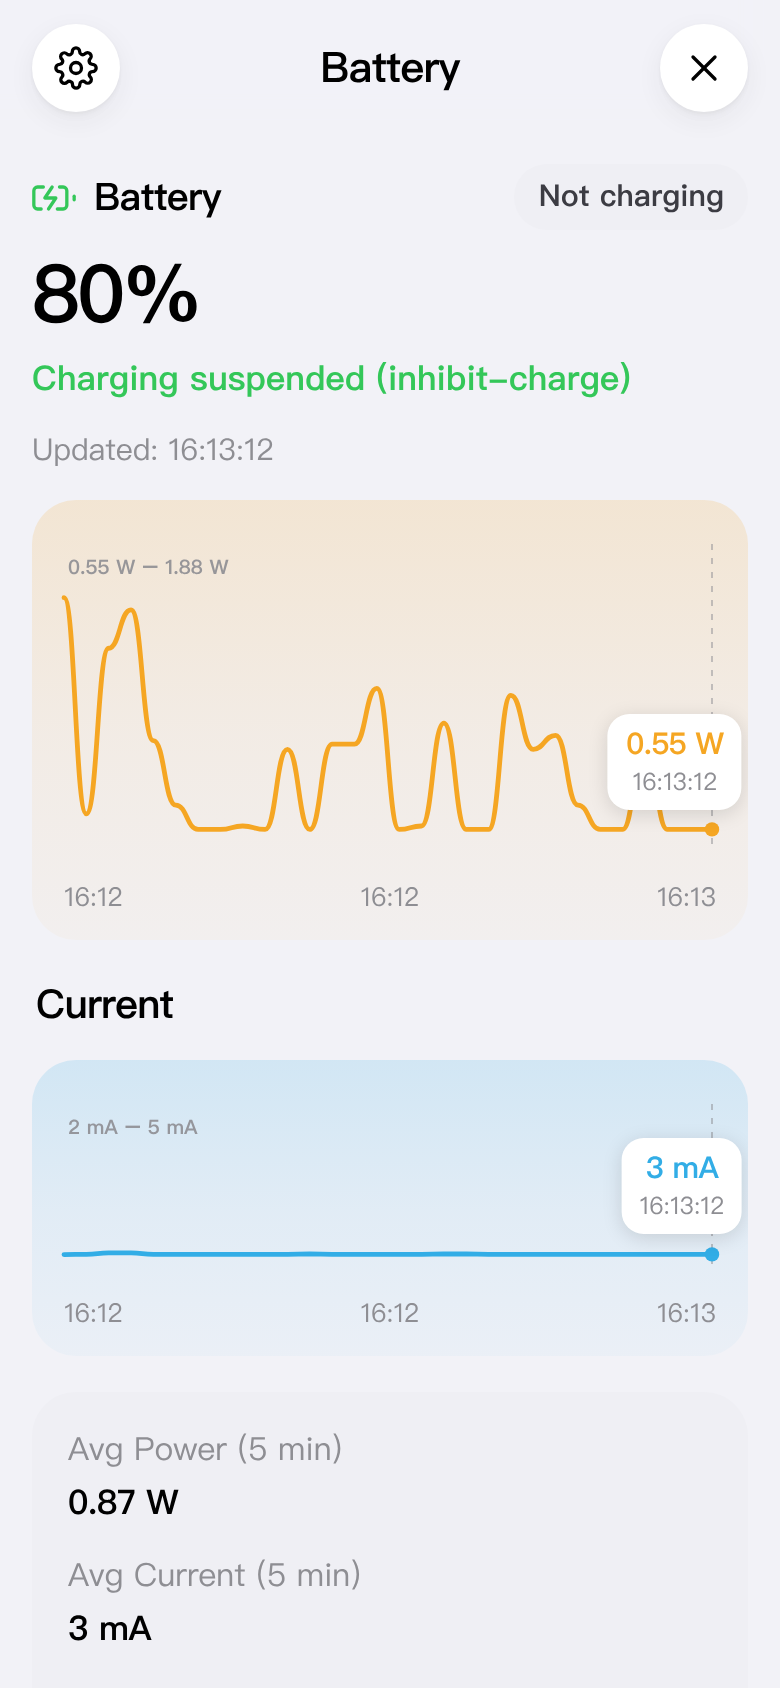
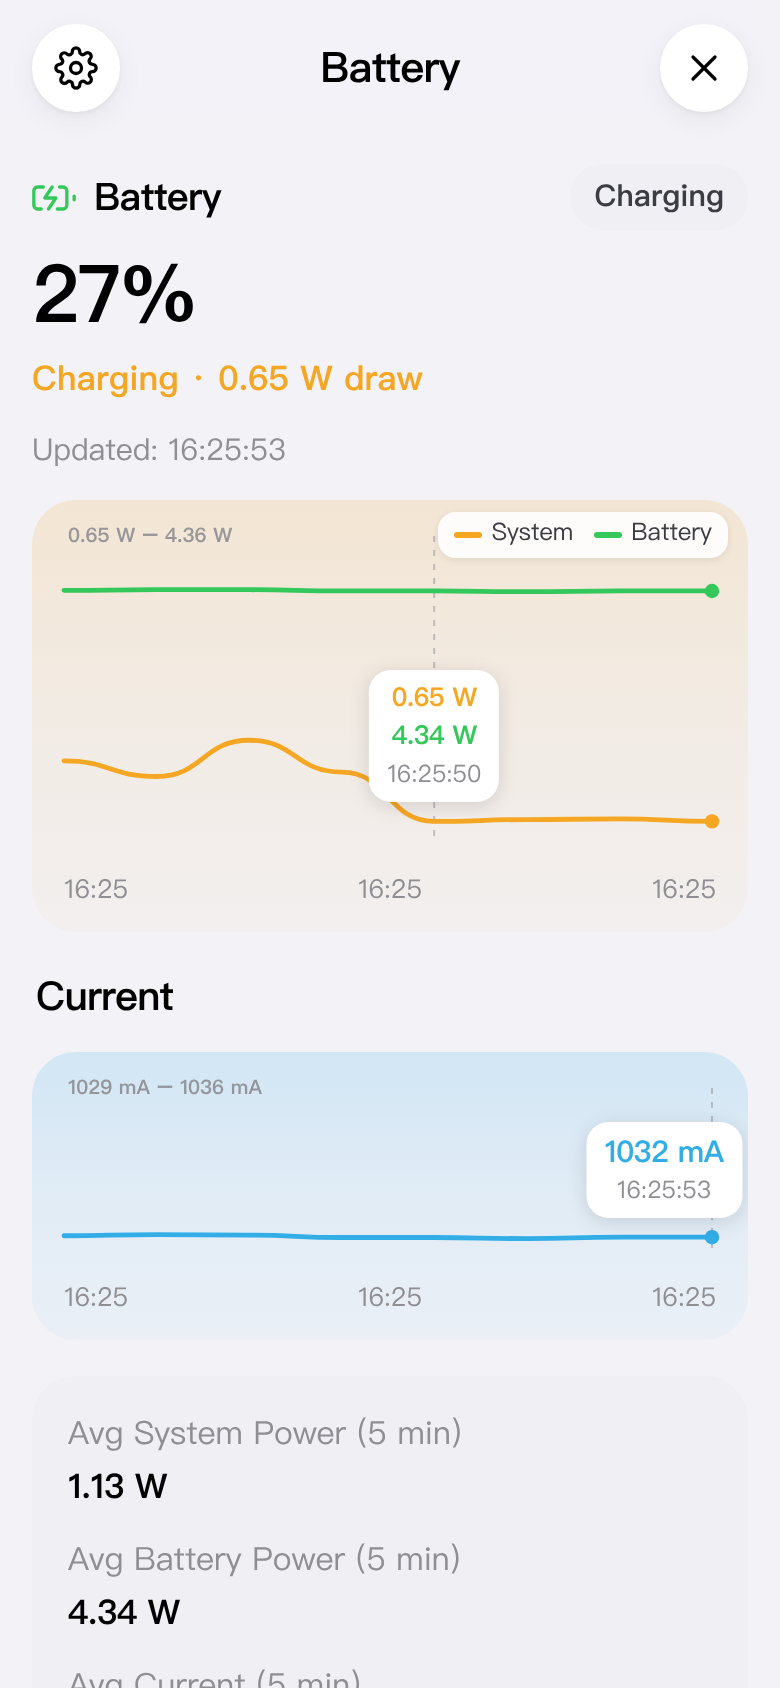
宽屏适配：电脑端变成双栏常驻看板
手机保持单栏 + 全屏滑入式详情；≥1024px 自动变成
左栏磁贴（独立滚动）+ 右栏详情（常驻，不再弹层）。

实现上刻意不动 DOM：#home 与 #detail 本来就是 #app 的直接子节点，
宽屏下把 #app 变成两列 grid 即可，openDetail/updateDetail/drawChart
的渲染逻辑一行都没改 —— 差别只是一个断点 + 几处行为分支。

其他：图表高度按视口取（主图 168→260、副图 96→144）；
详情内信息卡分两列、核心/温区网格四列；宽屏隐藏关闭按钮（不是模态）；
无深链时默认选中第一个指标；跨断点 resize 按当前指标重建图表。

踩坑：必须连 .detail.open 一起覆盖 —— 滑入态是 .detail.open（两个类），
特异性高于单个 .detail，只写 .detail{transform:none} 会让 translateX(-50%)
残留，右栏整体左移半屏（实测 408 → -108）。

顺带修 index.html 两处遗留：<title> 还是 v30 Monitor；lang=zh-CN 但界面全英文。

测试：桌面段重写并新增 6 条，共 62 项；手机端那 30 多条断言一条没动，
用来证明没破坏移动端。

diff --git a/static/app.js b/static/app.js
@@ -907,6 +907,19 @@ const METRICS = {
 // power 已于 2026-09-14 合并进 battery（同一份数据源、详情页字段重复）
 const TILE_ORDER = ['cpu', 'temp', 'memory', 'disk', 'io', 'traffic', 'netq', 'battery', 'system'];
 
+/* -------------------------------------------------------- 布局模式（断点） */
+/* 手机（<1024px）：单栏，点磁贴 → 全屏滑入的详情层，是「模态」。
+   电脑（≥1024px）：双栏常驻，左栏磁贴、右栏直接渲染详情，不是模态。
+   两者的差别只在「一个 CSS 断点 + 几处行为分支」，渲染逻辑（openDetail /
+   updateDetail / drawChart）完全共用 —— 所以手机端的表现一行都不会变。 */
+const DESKTOP_MQ = window.matchMedia('(min-width: 1024px)');
+const isDesktop = () => DESKTOP_MQ.matches;
+
+/* 宽屏下图表画大一点：竖向不再紧张，横向也够 */
+function chartHeights() {
+  return isDesktop() ? { main: 260, mini: 144 } : { main: 168, mini: 96 };
+}
+
 /* ------------------------------------------------------------------ 状态 */
 let DATA = null;
 let failures = 0;
@@ -1043,12 +1056,13 @@ function openDetail(id) {
 
   // 第二张图（可选）：比如 Battery 页的电流。mA 和 W 差两个数量级，
   // 不能和功率挤在一张图里，所以单独一张矮图。
+  const sizes = chartHeights();
   if (spec.miniChart) {
     body.appendChild(h('div', 'sub-title', spec.miniChart.title));
     const extraCard = h('div', 'chart-card');
     extraCard.style.background = chartBg(spec.miniChart.lines[0].color);
     body.appendChild(extraCard);
-    chartCards.extra = createChart(extraCard, { height: 96 });
+    chartCards.extra = createChart(extraCard, { height: sizes.mini });
   }
 
   const infoCard = h('div', 'info-card');
@@ -1099,7 +1113,7 @@ function openDetail(id) {
   }
 
   view.appendChild(body);
-  chartCards.main = createChart(chartCard, { height: 168 });
+  chartCards.main = createChart(chartCard, { height: sizes.main });
 
   // 图例压在主图右上角。**必须放在 createChart 之后** —— 那个函数会
   // host.innerHTML = ''，先加的会被抹掉。
@@ -1117,6 +1131,13 @@ function openDetail(id) {
   updateDetail();
 
   view.setAttribute('aria-hidden', 'false');
+  if (isDesktop()) {
+    // 宽屏是**常驻栏位**：直接显示，不推开首页，也不往 history 里塞条目
+    // （否则每点一个磁贴就多一条历史，返回键会变成"逐个撤销选择"）
+    view.classList.add('open');
+    $('#home').classList.remove('pushed');
+    return;
+  }
   if (!history.state || !history.state.detail) history.pushState({ detail: id }, '');
   requestAnimationFrame(() => {
     view.classList.add('open');
@@ -1128,10 +1149,17 @@ function closeDetail(fromPop) {
   const view = $('#detail');
   view.classList.remove('open');
   $('#home').classList.remove('pushed');
-  view.setAttribute('aria-hidden', 'true');
   currentDetail = null;
   chartCards.main = null;
   Object.keys(chartCards).forEach((k) => { if (k !== 'main') delete chartCards[k]; });
+
+  if (isDesktop()) {
+    // 宽屏下右栏是常驻的，"关闭"只是取消选中 —— 留个空态，不是收起一个弹层
+    view.innerHTML = '<div class="detail-empty">Select a metric on the left</div>';
+    view.setAttribute('aria-hidden', 'false');
+    return;
+  }
+  view.setAttribute('aria-hidden', 'true');
   if (!fromPop && history.state && history.state.detail) history.back();
 }
 
@@ -1392,16 +1420,26 @@ function boot() {
   history.replaceState({ v: 'home' }, '');
   window.addEventListener('popstate', () => { if (currentDetail) closeDetail(true); });
 
+  // 跨越 1024px 断点时布局变了（单栏模态 ↔ 双栏常驻），图表高度也跟着变
+  // （168 ↔ 260），所以必须按当前指标重建一次图表。
+  DESKTOP_MQ.addEventListener('change', (e) => {
+    const id = currentDetail ? currentDetail.id : (e.matches ? TILE_ORDER[0] : null);
+    if (id) openDetail(id);
+    else $('#detail').innerHTML = '';
+  });
+
   poll();
 
   // 支持 #cpu / #temp / #system 这类深链，直接打开对应详情页。
   // power 已合并进 battery，旧链接做个转发免得失效。
+  // 宽屏下若没有深链，默认选中第一个指标 —— 否则右边一大片空白。
   const LEGACY_DEEP = { power: 'battery' };
   const raw = (location.hash || '').replace('#', '');
   const deep = LEGACY_DEEP[raw] || raw;
-  if (deep && METRICS[deep]) {
+  const wanted = deep && METRICS[deep] ? deep : (isDesktop() ? TILE_ORDER[0] : null);
+  if (wanted) {
     const wait = setInterval(() => {
-      if (DATA) { clearInterval(wait); openDetail(deep); }
+      if (DATA) { clearInterval(wait); openDetail(wanted); }
     }, 120);
   }
 }

diff --git a/static/app.css b/static/app.css
@@ -654,3 +654,106 @@ body { display: flex; justify-content: center; }
   transition: transform .3s ease;
 }
 .offline.show { transform: translate(-50%, 0); }
+
+/* =========================================================================
+   宽屏（电脑端）布局：≥1024px —— 双栏常驻
+
+   手机上是「点磁贴 → 全屏滑入详情」；宽屏上改成：
+     左栏 = 设备卡 + 磁贴（自己滚）        右栏 = 选中指标的详情（自己滚）
+
+   实现上刻意**不动 DOM**：#home 与 #detail 本来就是 #app 的直接子节点，
+   宽屏下把 #app 变成两列 grid，两者各占一列 ——
+   openDetail / updateDetail 的渲染逻辑一行都不用改。
+   （#offline / .sheet-mask / .sheet 都是 position: fixed，不参与 grid。）
+   ========================================================================= */
+@media (min-width: 1024px) {
+  html, body { height: 100%; }
+
+  /* 桌面下整页不滚，两栏各自滚。这里 overflow: hidden 是安全的：
+     不再需要"靠 body 滚"，所以踩不到「body 变滚动容器 +
+     overscroll-behavior-y: none 阻断滚动链」那个坑（见文件开头那段注释）。 */
+  body {
+    display: block;
+    height: 100%;
+    overflow: hidden;
+  }
+
+  #app {
+    max-width: none;
+    width: 100%;
+    height: 100vh;
+    min-height: 0;
+    display: grid;
+    grid-template-columns: minmax(352px, 408px) minmax(0, 1fr);
+    box-shadow: none;
+  }
+
+  /* ---------------- 左栏：首页 ---------------- */
+  #home {
+    height: 100vh;
+    overflow-y: auto;
+    overscroll-behavior: contain;
+    padding-top: 22px;
+    padding-bottom: 28px;
+    scrollbar-width: none;
+    -ms-overflow-style: none;
+    /* 桌面端没有"被详情页推开"这回事。!important 是为了兜住
+       从窄屏 resize 过来时残留的 .pushed 类。 */
+    transform: none !important;
+    opacity: 1 !important;
+  }
+  #home::-webkit-scrollbar { width: 0; height: 0; display: none; }
+  .view { min-height: 0; }
+  /* 磁贴仍然是 2 列：左栏只有 ~400px，再窄就放不下右上角的灰字了
+     （灰字宽度预算的推导见「卡片文案原则」那节） */
+  #home .grid { grid-template-columns: repeat(2, minmax(0, 1fr)); }
+
+  /* ---------------- 右栏：详情 ---------------- */
+  /* 从全屏模态层降级成普通栏位：不固定定位、不滑入、不盖任何东西。
+     ⚠ 必须连 `.detail.open` 一起覆盖 —— 基础样式里 `.detail.open`
+     （两个类）的特异性高于单个 `.detail`，只写 .detail 的话
+     滑入态那个 translateX(-50%) 会留下来，把右栏整体左移半屏。 */
+  .detail,
+  .detail.open {
+    position: static;
+    inset: auto;
+    transform: none;
+    width: auto;
+    max-width: none;
+    height: 100vh;
+    z-index: auto;
+    background: var(--card);
+    border-left: 1px solid var(--sep);
+  }
+  .detail-bar { padding-left: 24px; padding-right: 24px; }
+  /* 超宽屏上别把信息行拉成一条长线，给个宽度上限并居中 */
+  .detail-body {
+    padding: 6px 24px 0;
+    max-width: 1240px;
+    margin: 0 auto 0;
+  }
+  /* 不是模态层，就没有"关闭"的语义 —— 想看别的指标直接点左栏 */
+  .detail-bar #dClose { display: none; }
+
+  /* 详情内部利用横向空间：信息卡两列、核心 / 温区网格四列 */
+  .detail .info-card {
+    display: grid;
+    grid-template-columns: repeat(2, minmax(0, 1fr));
+    gap: 0 28px;
+  }
+  .detail .info-card .row { margin-bottom: 16px; }
+  .detail .grid { grid-template-columns: repeat(4, minmax(0, 1fr)); }
+
+  /* 空态：还没选中任何指标 */
+  .detail-empty {
+    display: flex;
+    align-items: center;
+    justify-content: center;
+    height: 100%;
+    color: var(--muted);
+    font-size: 16px;
+  }
+
+  /* 底部面板在宽屏上别那么窄 */
+  .sheet { max-width: 560px; }
+}

diff --git a/static/index.html b/static/index.html
@@ -1,12 +1,12 @@
 <!DOCTYPE html>
-<html lang="zh-CN">
+<html lang="en">
 <head>
 <meta charset="utf-8">
 <meta name="viewport" content="width=device-width, initial-scale=1, viewport-fit=cover, maximum-scale=1, user-scalable=no">
 <meta name="apple-mobile-web-app-capable" content="yes">
 <meta name="apple-mobile-web-app-status-bar-style" content="default">
 <meta name="theme-color" content="#F2F2F7">
-<title>v30 Monitor</title>
+<title>gumonitor</title>
 <link rel="stylesheet" href="app.css">
 </head>
 <body>
